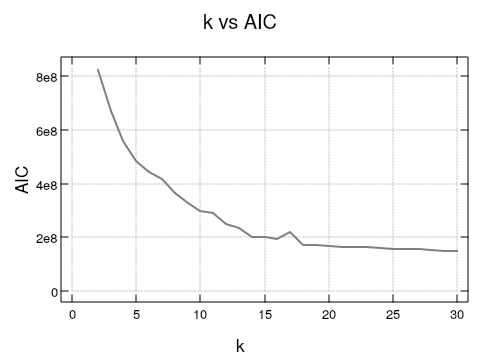
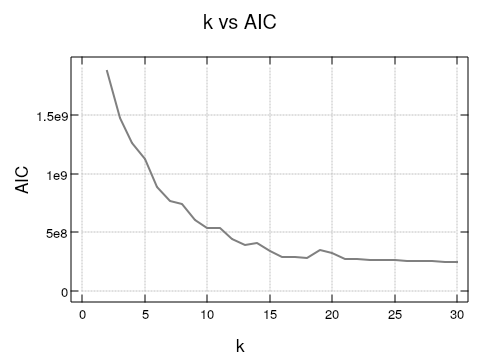
AIC correction

diff --git a/README.md b/README.md
@@ -159,10 +159,10 @@ The code above calls kmbest for 2<=k<=30. Lets graph it:
 
 ![k vs AIC](https://github.com/emiruz/kmedoids/blob/main/img/s1_aic.png?raw=true)
 
-Conveniently, AIC flat-lines at k=15, so we can just
+Conveniently, AIC flat-lines at k=16, so we can just
 grab the corresponding results from the tests array:
 
-    > 13 { tests
+    > 14 { tests
 
 Lets plot the elemplars on off the data:
 
@@ -174,7 +174,7 @@ Lets plot the elemplars on off the data:
     pd ;/ |: data
     pd 'color red'
     pd 'pensize 3.1'
-    pd ;/ |: (> 13 { tests) { data
+    pd ;/ |: (> 14 { tests) { data
 
 ![Data vs exemplars](https://github.com/emiruz/kmedoids/blob/main/img/s1_clusters.png?raw=true)
 
